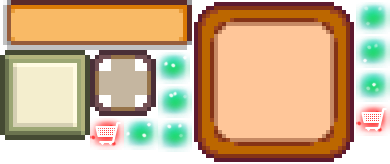
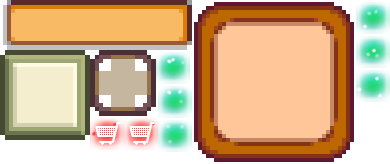
对话管理器
ADD 对话管理器
UPDATE 更新贴图文件与缓存

diff --git a/Classes/DialogueManager.cpp b/Classes/DialogueManager.cpp
@@ -1,0 +1,50 @@
+#include "DialogueManager.h"
+#include "GlobalDefine.h"
+
+USING_NS_CC;
+
+bool DialogueManager::init(){
+	//对话框
+	this->_dialogueBg = Scale9Sprite::createWithSpriteFrame(SpriteFrameCache::getInstance()->getSpriteFrameByName("textBox.png"));
+	this->_dialogueBg->setName("dialogueBg");
+	this->_dialogueBg->setPreferredSize(Size(WINSIZE.width * 0.8, WINSIZE.height * 0.25));
+	this->_dialogueBg->setPosition(WINSIZE.width / 2, WINSIZE.height / 5);
+
+	//文本
+	this->_dialogueText = LabelTTF::create("","",26);
+	this->_dialogueText->setDimensions(this->_dialogueBg->getPreferredSize() - Size(40,20));
+	this->_dialogueText->setColor(Color3B(16, 16, 16));
+	this->_dialogueText->setAnchorPoint(Vec2(0.5, 0.5));
+	this->_dialogueText->setHorizontalAlignment(TextHAlignment::LEFT);
+	this->_dialogueText->setPosition(this->_dialogueBg->getPosition());
+
+	this->retain();
+
+	return true;
+}
+
+bool DialogueManager::loadDialogueFromFile(char* fileName){
+	auto fileUrl = String::createWithFormat("data/dialogue/%s.xml", fileName);
+
+	log("is loading file %s", fileUrl);
+	log("have not finished");
+
+	return true;
+}
+
+void DialogueManager::showDialogue(Layer* layer){
+	auto dialogueBg = layer->getChildByName("dialogueBg");
+	if (dialogueBg == NULL){
+		layer->addChild(this->_dialogueBg);
+		layer->addChild(this->_dialogueText);
+	}
+}
+
+void DialogueManager::updateDialogueText(char* text){
+	if (_dialogueText != NULL){
+		_dialogueText->setString(text);
+	}
+	else{
+		log("variable _dialogueText is null");
+	}
+}

diff --git a/Classes/SplashLayer.cpp b/Classes/SplashLayer.cpp
@@ -42,6 +42,7 @@ bool SplashLayer::init(){
 	//主界面
 	Director::getInstance()->getTextureCache()->addImageAsync("pnglist/StartLayer.png", CC_CALLBACK_1(SplashLayer::loadingTextureCallBack, this));
 	Director::getInstance()->getTextureCache()->addImageAsync("pnglist/SetLayer.png", CC_CALLBACK_1(SplashLayer::loadingTextureCallBack, this));
+	Director::getInstance()->getTextureCache()->addImageAsync("pnglist/GameLayer.png", CC_CALLBACK_1(SplashLayer::loadingTextureCallBack, this));
 
 	_loadingAudioThread = new std::thread(&SplashLayer::loadingAudio, this);
 
@@ -55,6 +56,9 @@ void SplashLayer::loadingTextureCallBack(Texture2D *texture) {
 		break;
 	case 1:
 		SpriteFrameCache::getInstance()->addSpriteFramesWithFile("pnglist/SetLayer.plist", texture);
+		break;
+	case 2:
+		SpriteFrameCache::getInstance()->addSpriteFramesWithFile("pnglist/GameLayer.plist", texture);
 		this->schedule(schedule_selector(SplashLayer::nextScene), 1, 1, 1);//加载到下一个场景
 		break;
 	default:

diff --git a/Classes/MapManager.cpp b/Classes/MapManager.cpp
@@ -83,7 +83,6 @@ void MapManager::onMouseMove(EventMouse *mouse) {
 	mousePos.clamp(mapStartPoint + Vec2(0.1, 0.1), mapStartPoint + mapSize - Vec2(0.1, 0.1));//限制在地图内,距离地图边缘0.1像素
 
 	Vec2 tileCoordinate = Vec2(mousePos.x / mapTileSize.width, mousePos.y / mapTileSize.height);
-	log("%f,%f", tileCoordinate.x, tileCoordinate.y);
 	Sprite* tileSelected = bottomLayer->getTileAt(Vec2((int)tileCoordinate.x, map->getMapSize().height - 1 - (int)tileCoordinate.y));//获取选中地块的精灵
 	auto tileSelectedPos = tileSelected->getPosition();//地块相对坐标
 	auto tileSelectedRealPos = tileSelectedPos * getMapZoom() + Vec2(mapSize.width * mapAnchor.x, mapSize.height*mapAnchor.y) + mapStartPoint; //地块真实像素坐标

diff --git a/Classes/GameLayer.cpp b/Classes/GameLayer.cpp
@@ -3,6 +3,7 @@
 #include "GlobalData.h"
 #include "SimpleAudioEngine.h"
 #include "MapManager.h"
+#include "DialogueManager.h"
 
 USING_NS_CC;
 using namespace CocosDenshion;
@@ -43,6 +44,10 @@ bool GameLayer::init(){
 	mapManager = MapManager::createManager(this);
 	mapManager->loadMap("home");
 	mapManager->setSelectedHighlight();
+
+	dialogueManager = DialogueManager::create();
+	dialogueManager->showDialogue(this);
+	dialogueManager->updateDialogueText("test string");
 
 	return true;
 }

diff --git a/Classes/DialogueManager.h b/Classes/DialogueManager.h
@@ -1,0 +1,23 @@
+#ifndef __DialogueManager__H__
+#define __DialogueManager__H__
+
+#include "cocos2d.h"
+#include "cocos-ext.h"
+
+USING_NS_CC;
+USING_NS_CC_EXT;
+
+class DialogueManager : public Ref{
+public:
+	bool init();
+	CREATE_FUNC(DialogueManager);
+
+	bool loadDialogueFromFile(char* fileName);
+	void showDialogue(Layer* layer);
+	void updateDialogueText(char* text);
+private:
+	Scale9Sprite* _dialogueBg;
+	LabelTTF* _dialogueText;
+};
+
+#endif

diff --git a/Classes/GlobalData.h b/Classes/GlobalData.h
@@ -3,10 +3,12 @@
 
 #include "cocos2d.h"
 #include "MapManager.h"
+#include "DialogueManager.h"
 
 USING_NS_CC;
 
 extern MapManager* mapManager;
+extern DialogueManager* dialogueManager;
 extern char* playerName;
 
 #endif

diff --git a/Classes/GlobalData.cpp b/Classes/GlobalData.cpp
@@ -1,5 +1,5 @@
 #include "GlobalData.h"
-#include "MapManager.h"
 
 MapManager* mapManager;
+DialogueManager* dialogueManager;
 char* playerName;
